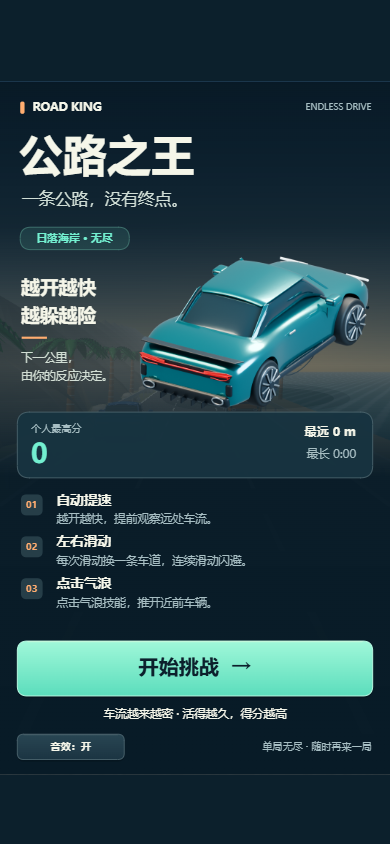
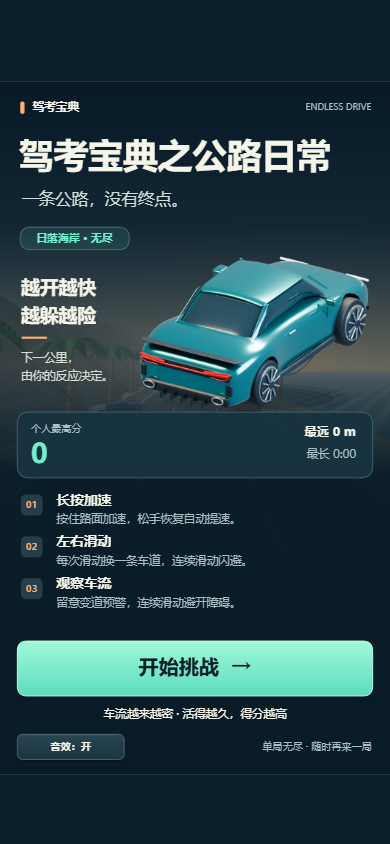
Remove pulse skill, controls, effects and audio

Changed region(s): [[0.0308, 0.1232, 0.8615, 0.2156], [0.1231, 0.5853, 0.5846, 0.6469], [0.1538, 0.6777, 0.5846, 0.7393]]

diff --git a/公路之王/src/game-app.js b/公路之王/src/game-app.js
@@ -32,7 +32,6 @@ class RoadKingApp {
     if(type==='collision'||(type==='mode'&&this.game.mode!=='playing'))this.releaseHolds();
     if(type==='start'||type==='mode'||type==='result'||type==='collision')this.syncEngine();
     if(type==='collision'){this.shake=.5;this.p.vibrate();if(!this.muted)this.p.sound('hit');}
-    if(type==='pulse'&&!this.muted)this.p.sound('pulse');
     if(type==='result'){
       const g=this.game;this.releaseHolds();this.newBest=g.score>this.best.score;
       this.best={score:Math.max(this.best.score,number(g.score)),distance:Math.max(this.best.distance,number(g.distance)),elapsed:Math.max(this.best.elapsed,number(g.elapsed))};
@@ -172,7 +171,6 @@ class RoadKingApp {
     for(let z=240;z>-8;z-=42){const a=this.projection(z-travel%42),x=270+a.half+37*a.p,h=136*a.p;this.line(x,a.y,x,a.y-h,'#657a7b',Math.max(1,3*a.p));this.line(x,a.y-h,x-28*a.p,a.y-h+2*a.p,'#83918b',Math.max(1,3*a.p));this.line(x-28*a.p,a.y-h+3*a.p,x-48*a.p,a.y-h+3*a.p,'#ffdf9b',Math.max(1,3*a.p));}
     if(!menu){
       this.drawSpeedLines();
-      if(g.pulseLife>0){const a=this.projection(0,g.playerX),radius=(.8-g.pulseLife)*220+40;c.strokeStyle=C.cyan;c.lineWidth=7*g.pulseLife;c.beginPath();c.ellipse(a.x,a.y-19,radius,radius*.55,0,0,Math.PI*2);c.stroke();}
     }
     const traffic=menu?[{id:1,x:-1,z:32},{id:2,x:1,z:59,threat:true},{id:4,x:0,z:115},{x:0,z:84,kind:'barrier'}]:g.traffic;
     const actors=traffic.slice();if(!menu)actors.push({player:true,x:g.playerX,z:0});
@@ -230,7 +228,7 @@ class RoadKingApp {
     this.txt('越开越快',29,287,26,C.white,'bold');this.txt('越躲越险',29,327,26,C.white,'bold');this.line(30,355,65,355,C.orange,3);this.txt('下一公里，',29,385,16,'#d2ded4');this.txt('由你的反应决定。',29,409,16,'#d2ded4');
     if(this.art.hero){this.groundShadow(355,439,130,21);c.drawImage(this.art.hero,158,215,388,259);}else this.car(398,412,1.65,C.cyan,true,false);
     this.rr(24,458,492,91,17,'rgba(23,51,63,.96)','#476069');this.txt('个人最高分',43,482,14,C.mute);this.txt(Math.round(this.best.score),43,519,37,C.cyan,'bold');this.txt('最远 '+distance(this.best.distance),493,486,17,C.white,'bold','right');this.txt('最长 '+duration(this.best.elapsed),493,518,16,C.mute,'normal','right');
-    const tips=[['01','长按加速','按住路面加速，松手恢复自动提速。'],['02','左右滑动','每次滑动换一条车道，连续滑动闪避。'],['03','点击气浪','点击气浪技能，推开近前车辆。']];
+    const tips=[['01','长按加速','按住路面加速，松手恢复自动提速。'],['02','左右滑动','每次滑动换一条车道，连续滑动闪避。'],['03','观察车流','留意变道预警，连续滑动避开障碍。']];
     tips.forEach((tip,i)=>{const y=581+i*58;this.rr(29,y-9,30,29,8,'#263e48');this.txt(tip[0],44,y+6,13,C.orange,'bold','center');this.txt(tip[1],78,y,19,C.white,'bold');this.txt(tip[2],78,y+26,16,C.mute);});
     this.button(24,775,492,76,'开始挑战  →',()=>this.start(),{primary:true,size:28});this.txt('车流越来越密 · 活得越久，得分越高',270,878,16,C.white,'normal','center');
     this.button(24,904,148,35,this.muted?'音效：关':'音效：开',()=>this.toggleSound(),{size:14,radius:9});
@@ -261,13 +259,6 @@ class RoadKingApp {
     if(playing&&g.elapsed<7){this.rr(111,276,318,42,12,'rgba(10,27,38,.88)');this.txt('← 左右滑动，连续闪避 →',270,297,18,C.white,'bold','center');}
     const controls=c.createLinearGradient(0,844,0,H);controls.addColorStop(0,'#163747');controls.addColorStop(1,'#0b202e');c.fillStyle=controls;c.fillRect(0,844,W,116);this.line(0,844,W,844,'#769082');
     this.txt('←',99,875,34,C.cyan,'bold','center');this.txt('滑动驾驶',270,872,24,C.white,'bold','center');this.txt('→',441,875,34,C.cyan,'bold','center');this.txt('左右滑动换道 · 长按路面加速',270,901,16,C.mute,'normal','center');
-    if(playing){
-      const x=473,y=664,r=45,cooling=g.pulseCooldown>0;
-      c.save();c.beginPath();c.arc(x,y,r,0,Math.PI*2);c.fillStyle=cooling?'rgba(20,43,53,.42)':'rgba(24,65,68,.48)';c.fill();c.strokeStyle=cooling?'rgba(205,232,224,.32)':'rgba(151,255,221,.72)';c.lineWidth=2;c.stroke();
-      if(cooling){c.beginPath();c.arc(x,y,r-4,-Math.PI/2,-Math.PI/2+Math.PI*2*(1-g.pulseCooldown/10));c.strokeStyle='rgba(115,239,208,.65)';c.lineWidth=3;c.stroke();}
-      this.txt(cooling?Math.ceil(g.pulseCooldown)+'s':'✦',x,y-9,cooling?23:30,cooling?C.white:C.cyan,'bold','center');this.txt('气浪',x,y+21,15,C.white,'bold','center');c.restore();
-      this.buttons.push({x:x-r,y:y-r,w:r*2,h:r*2,circle:true,key:'气浪技能',disabled:cooling,action:()=>g.pulse()});
-    }
     this.txt(g.collisionStopped?'碰撞停车 · 滑到旁边车道重新起步':g.throttle?'正在加速 · 松手恢复巡航':'自动提速 · 长按路面加速',270,934,15,C.mute,'normal','center');
   }
   scrim(){this.ctx.fillStyle='rgba(3,12,19,.83)';this.ctx.fillRect(0,0,W,H);this.buttons=[];}
@@ -280,7 +271,7 @@ class RoadKingApp {
     this.txt('本局得分',270,354,16,C.mute,'normal','center');this.txt(Math.round(g.score),270,405,62,C.cyan,'bold','center');this.txt('最高分 '+Math.round(this.best.score),270,455,17,this.newBest?C.orange:C.mute,'bold','center');
     const stats=[['行驶距离',distance(g.distance)],['存活时间',duration(g.elapsed)],['最高时速',Math.round(g.maxSpeed||g.speed)+' km/h'],['成功躲避',number(g.dodged)+' 次']];
     stats.forEach((stat,i)=>{const x=i%2===0?150:390,y=i<2?507:591;this.txt(stat[0],x,y,15,C.mute,'normal','center');this.txt(stat[1],x,y+34,27,C.white,'bold','center');});
-    this.button(50,672,440,66,'再挑战一次  →',()=>this.start(),{primary:true,size:25});this.button(50,757,440,51,'返回首页',()=>{this.releaseHolds();this.game.menu();},{size:19});this.txt('提前左右滑动，点击气浪解围。',270,872,17,C.mute,'normal','center');
+    this.button(50,672,440,66,'再挑战一次  →',()=>this.start(),{primary:true,size:25});this.button(50,757,440,51,'返回首页',()=>{this.releaseHolds();this.game.menu();},{size:19});this.txt('观察变道预警，左右滑动避开障碍。',270,872,17,C.mute,'normal','center');
   }
 }
 module.exports=RoadKingApp;

diff --git a/tests/game-core.test.js b/tests/game-core.test.js
@@ -134,7 +134,7 @@ test('a run settles once on the fourth hit and retry resets all challenge resour
   const events = [];
   const game = fresh(137, (type, data) => events.push({ type, data }));
   noSpawns(game);
-  game.update(80); game.pulse(); game.setSignal(1); game.update(0.5);
+  game.update(80); game.setSignal(1); game.update(0.5);
   for (let i = 0; i < 4; i++) { game.traffic = []; game.collisionStopped = false; game.invulnerability = 0; car(game); game._updateTraffic(0.001); }
   game.update(0.01);
   assert.equal(game.mode, 'result');
@@ -145,7 +145,7 @@ test('a run settles once on the fourth hit and retry resets all challenge resour
   assert.equal(JSON.stringify(game), result);
   assert.equal(events.filter(event => event.type === 'result').length, 1);
   game.start(2);
-  for (const name of ['score', 'elapsed', 'distance', 'collisions', 'dodged', 'waveCount', 'clearedEvents', 'eventCount', 'pulseCooldown', 'signalRewardCooldown'])
+  for (const name of ['score', 'elapsed', 'distance', 'collisions', 'dodged', 'waveCount', 'clearedEvents', 'eventCount', 'signalRewardCooldown'])
     assert.equal(game[name], 0, name);
   assert.equal(game.level, 0);
   assert.equal(game.health, 100);
@@ -161,13 +161,12 @@ test('a run settles once on the fourth hit and retry resets all challenge resour
 test('pause freezes clocks and cars; resume and menu obey mode guards', () => {
   const game = fresh(); noSpawns(game);
   car(game, 1, 15);
-  game.setSignal(-1); game.pulse(); game.update(0.5);
+  game.setSignal(-1); game.update(0.5);
   game.setThrottle(true); game.pause();
   const before = JSON.stringify(game);
   game.update(25);
   assert.equal(JSON.stringify(game), before);
   assert.equal(game.changeLane(-1), false);
-  assert.equal(game.pulse(), false);
   assert.equal(game.setSignal(1), false);
   assert.equal(game.throttle, false);
   assert.equal(game.resume(), true);
@@ -195,24 +194,6 @@ test('signal reward still requires a full second, correct direction and a clear 
       assert.equal(game.score, secondScore, 'cooldown prevents another signal bonus');
     }
   }
-});
-
-test('pulse has a ten-second cooldown and affects only cars in its visible range', () => {
-  const game = fresh(); noSpawns(game);
-  const near = car(game, 1, 20);
-  const far = car(game, -1, 50);
-  assert.equal(game.pulse(), true);
-  assert.equal(game.pulseCooldown, 10);
-  assert.equal(near.escaped, true);
-  assert.equal(near.z, 32);
-  assert.equal(far.escaped, false);
-  assert.equal(game.pulse(), false);
-  assert.equal(game.pulsesUsed, 1);
-  game.update(9.99);
-  assert.equal(game.pulse(), false);
-  game.update(0.02);
-  assert.equal(game.pulse(), true);
-  assert.equal(game.pulsesUsed, 2);
 });
 
 test('brake API and energy reserve are removed', () => {
@@ -284,7 +265,6 @@ test('visible lane choices support six-minute runs across seeds as real traffic 
     close(game.elapsed, 360);
     assert.equal(game.health, 100, `seed ${seed}: readable traffic should be avoidable`);
     assert.equal(game.collisions, 0);
-    assert.equal(game.pulsesUsed, 0, 'basic survival does not require an emergency ability');
     assert.ok(game.dodged > 100);
     const early = waves.filter(wave => wave.elapsed < 30);
     const late = waves.filter(wave => wave.elapsed >= 300 && wave.elapsed < 330);

diff --git a/tests/game-app.test.js b/tests/game-app.test.js
@@ -27,10 +27,19 @@ function fixture(){
  const swipe=(dx,dy,y=540)=>{a.touchStart(event(270,y));a.touchMove(event(270+dx,y+dy));a.touchEnd(event(270+dx,y+dy));};
  return {a,p,event,swipe};
 }
-test('tap and small diagonal motion do not change lanes',()=>{const {a,swipe}=fixture();swipe(10,10);swipe(60,60);assert.equal(a.game.lane,0);assert.equal(a.game.pulseCooldown,0);});
+test('former skill area supports normal road swipe and long press without moving traffic',()=>{
+ const {a,event}=fixture();a.game._nextTraffic=Infinity;
+ const car=a.game._car(-1,25);a.game.traffic.push(car);
+ a.touchStart(event(473,664));a.touchEnd(event(473,664));
+ assert.equal(car.z,25);assert.equal(car.speed,28);assert.equal(a.game.lane,0);
+ a.touchStart(event(473,664));a.touchMove(event(373,664));a.touchEnd(event(373,664));
+ assert.equal(a.game.lane,-1);
+ a.touchStart(event(473,664));a.update(.35);assert.equal(a.game.throttle,true);
+ a.touchEnd(event(473,664));assert.equal(a.game.throttle,false);
+});
+test('tap and small diagonal motion do not change lanes',()=>{const {a,swipe}=fixture();swipe(10,10);swipe(60,60);assert.equal(a.game.lane,0);});
 test('long swipe changes one lane; subsequent swipe can queue next lane',()=>{const {a,event,swipe}=fixture();a.touchStart(event(270,540));a.touchMove(event(180,540));a.touchMove(event(60,540));assert.equal(a.game.lane,-1);a.touchEnd(event(60,540));swipe(100,0);swipe(100,0);a.update(.5);assert.equal(a.game.lane,1);});
-test('down swipe does not change speed or lane',()=>{const {a,swipe}=fixture();const speed=a.game.speed;swipe(0,60,850);assert.equal(a.game.speed,speed);assert.equal(a.game.lane,0);assert.equal(a.game.pulseCooldown,0);assert.equal(a.game.setBrake,undefined);});
-test('up swipe does not release pulse; skill touch activates it once',()=>{const {a,event,swipe}=fixture();swipe(0,-80);assert.equal(a.game.pulseCooldown,0);a.draw=()=>{};a.buttons=[{x:428,y:619,w:90,h:90,circle:true,key:'气浪技能',action:()=>a.game.pulse()}];assert.equal(a.inside({x:429,y:620},a.buttons[0]),false);assert.equal(a.inside({x:473,y:664},a.buttons[0]),true);a.touchStart(event(473,664));a.touchEnd(event(473,664));assert.equal(a.game.pulseCooldown,10);a.update(.1);a.touchStart(event(473,664));assert.ok(a.game.pulseCooldown<10);});
+test('down swipe does not change speed or lane',()=>{const {a,swipe}=fixture();const speed=a.game.speed;swipe(0,60,850);assert.equal(a.game.speed,speed);assert.equal(a.game.lane,0);assert.equal(a.game.setBrake,undefined);});
 test('secondary fingers do not issue gestures and cancel clears gestures',()=>{const {a,p,event}=fixture();a.touchStart(event(270,540,1));a.touchStart(event(270,540,2));a.touchMove(event(370,540,2));assert.equal(a.game.lane,0);a.touchMove(event(270,640,1));p.handlers[3]();assert.deepEqual(a.touchMap,{});});
 test('background clears queued lane before pausing',()=>{const {a,p,swipe}=fixture();swipe(0,80);p.life[0]();assert.equal(a.game.mode,'paused');assert.equal(a.queuedLane,null);a.update(2);assert.equal(a.game.elapsed,0);});
 test('long press accelerates after delay, releases and still permits swipe',()=>{

diff --git a/公路之王/src/scene-renderer.js b/公路之王/src/scene-renderer.js
@@ -20,7 +20,6 @@ void main(){vec3 n=normalize(vNormal),view=normalize(uEye-vWorld),light=normaliz
 if(uKind>0.5&&uKind<1.5){float grain=noise(vec2(vWorld.x*28.,(vWorld.z+uTravel)*28.));base=vec3(.105,.115,.125)*(0.80+grain*.30);float lane=abs(abs(vWorld.x)-1.55);float dash=step(3.,mod(-vWorld.z-uTravel,6.));if(lane<.055&&dash>.5||abs(vWorld.x)>4.48)base=vec3(.84,.82,.71);rough=.9;}
 if(uKind>1.5&&uKind<2.5){float wave=sin(vWorld.x*1.8+uTravel*.03)*sin(vWorld.z*.8+uTravel*.06);n=normalize(vec3(wave*.08,1.,cos(vWorld.x*3.+vWorld.z)*.11));base=vec3(.025,.19,.24);rough=.16;metal=.35;}
 if(uKind>2.5&&uKind<3.5){float r=length((vWorld.xz-uPosition.xz)/uScale.xz);gl_FragColor=vec4(.015,.02,.025,.38*(1.-smoothstep(.45,1.,r)));return;}
-if(uKind>3.5&&uKind<4.5){float r=length((vWorld.xz-uPosition.xz)/uScale.xz);float a=1.-smoothstep(.035,.075,abs(r-.8));gl_FragColor=vec4(.25,1.,.78,a*.65);return;}
 vec3 h=normalize(light+view);float diffuse=max(dot(n,light),0.);float spec=pow(max(dot(n,h),0.),mix(110.,7.,rough));float fresnel=pow(1.-max(dot(n,view),0.),5.);
 vec3 ambient=mix(vec3(.14,.19,.24),vec3(.56,.69,.76),n.y*.5+.5);
 vec3 color=base*(ambient*.75+vec3(1.,.73,.44)*diffuse*.85)+mix(vec3(.45),base,metal)*spec*(.3+metal*.8);
@@ -77,7 +76,6 @@ class SceneRenderer{
     g.enable(g.BLEND);g.blendFunc(g.SRC_ALPHA,g.ONE_MINUS_SRC_ALPHA);g.depthMask(false);
     for(const car of cars){if(car.z> -5&&car.z<150)this.draw(this.ground,[car.x*3.1,.015,-car.z],[1.3,1,2.5],null,3);}
     if(!menu)this.draw(this.ground,[game.playerX*3.1,.018,0],[1.35,1,2.6],null,3);
-    if(game.pulseLife>0){const r=1+(1-game.pulseLife/.8)*12;this.draw(this.ground,[game.playerX*3.1,.022,0],[r,1,r],null,4);}
     g.depthMask(true);g.disable(g.BLEND);
     for(const car of cars){if(car.z< -5||car.z>180)continue;const x=car.x*3.1,z=-car.z;this.model(car.kind==='barrier'?'barrier':car.threat?'player':car.id%2?'suv':'player',[x,.035,z],car.threat?[.76,.18,.035]:car.id%2?[.48,.51,.53]:[.035,.12,.30]);}
     if(!menu)this.model('player',[game.playerX*3.1,.035,0],[.012,.36,.41]);

diff --git a/公路之王/src/game-core.js b/公路之王/src/game-core.js
@@ -34,8 +34,6 @@ class RoadKingCore {
     this.signalDirection = 0;
     this.signalTimer = 0;
     this.signalRewardCooldown = 0;
-    this.pulseCooldown = 0;
-    this.pulseLife = 0;
     this.invulnerability = 0;
     this.collisionStopped = false;
     this.collisionX = 0;
@@ -46,7 +44,6 @@ class RoadKingCore {
     this.resultReason = '';
     this.stars = 0;
     this.signalsUsed = 0;
-    this.pulsesUsed = 0;
     this.throttle = false;
 
     this._nextTraffic = 1.4;
@@ -113,7 +110,7 @@ class RoadKingCore {
     if (this.health <= 0) { this._finish(false, '车辆耐久耗尽'); return; }
     this.elapsed += dt;
     this._updateDifficulty();
-    for (const key of ['invulnerability', 'laneChangeCooldown', 'signalRewardCooldown', 'pulseCooldown', 'pulseLife', 'messageTimer'])
+    for (const key of ['invulnerability', 'laneChangeCooldown', 'signalRewardCooldown', 'messageTimer'])
       this[key] = Math.max(0, this[key] - dt);
     if (this.signalDirection !== 0) {
       this.signalTimer += dt;
@@ -175,26 +172,6 @@ class RoadKingCore {
     this.signalTimer = 0;
     this.signalsUsed++;
     this._emit('signal', { direction: dir });
-    return true;
-  }
-
-  pulse() {
-    if (this.mode !== 'playing' || this.pulseCooldown > 1e-8) return false;
-    this.pulseCooldown = 10;
-    this.pulseLife = 0.8;
-    this.pulsesUsed++;
-    const carIds = [];
-    for (const car of this.traffic) {
-      if (car.kind === 'barrier' || car.hit || car.escaped || car.z < -4 || car.z > 36) continue;
-      car.z += 12;
-      car.speed = Math.max(150, roadSpeed(this.speed) + 70);
-      car.escaped = true;
-      car.signalDirection = 0;
-      car.warningTimer = 0;
-      carIds.push(car.id);
-    }
-    this._emit('pulse', { countered: carIds.length > 0, carIds, cooldown: 10 });
-    this._message(carIds.length ? '气浪已推开近处车辆 · 路障仍需换道' : '气浪已释放 · 近处车辆可推开，路障需避让', 2.8);
     return true;
   }
 

diff --git a/preview/browser-platform.js b/preview/browser-platform.js
@@ -178,14 +178,13 @@
   window.addEventListener('keydown', event => {
     const game = core();
     if (!game) return;
-    const keys = ['KeyA', 'KeyD', 'KeyW', 'KeyF', 'KeyR', 'ArrowLeft', 'ArrowRight', 'ArrowUp', 'Escape', 'Enter'];
+    const keys = ['KeyA', 'KeyD', 'KeyW', 'KeyR', 'ArrowLeft', 'ArrowRight', 'ArrowUp', 'Escape', 'Enter'];
     if (!keys.includes(event.code)) return;
     event.preventDefault();
     held.add(event.code); updateHeld();
     if (event.repeat) return;
     if (event.code === 'KeyA' || event.code === 'ArrowLeft') window.roadKingApp.changeLane(-1);
     else if (event.code === 'KeyD' || event.code === 'ArrowRight') window.roadKingApp.changeLane(1);
-    else if (event.code === 'KeyF') game.pulse();
     else if (event.code === 'Escape') {
       window.roadKingApp.releaseHolds();
       game.mode === 'paused' ? game.resume() : game.pause();

diff --git a/tests/platform.test.js b/tests/platform.test.js
@@ -74,9 +74,9 @@ test('storage round trips structured values and unavailable storage is nonfatal'
 
 test('audio contexts are cached by sound name, replay safely and stop on request', () => {
   const { platform, audio } = fixture();
-  platform.sound('pulse'); platform.sound('pulse'); platform.sound('hit');
+  platform.sound('signal'); platform.sound('signal'); platform.sound('hit');
   assert.equal(audio.length, 2);
-  assert.equal(audio[0].src, 'audio/pulse.wav'); assert.equal(audio[0].volume, 0.3);
+  assert.equal(audio[0].src, 'audio/signal.wav'); assert.equal(audio[0].volume, 0.3);
   assert.equal(audio[0].plays, 2); assert.equal(audio[0].stops, 2);
   assert.equal(audio[1].plays, 1);
   assert.equal(audio[1].volume, .85, 'collision cuts through the driving sound');

diff --git a/preview/index.html b/preview/index.html
@@ -17,7 +17,7 @@
   </style>
 </head>
 <body>
-  <header><strong>驾考宝典之公路日常 · 无尽挑战</strong><br>左右滑动换道 · 点击气浪技能 · 长按加速</header>
+  <header><strong>驾考宝典之公路日常 · 无尽挑战</strong><br>左右滑动换道 · 长按加速</header>
   <canvas id="game" aria-label="驾考宝典之公路日常游戏画布" tabindex="0"></canvas>
   <pre id="error" role="alert"></pre>
   <script src="/preview/browser-platform.js"></script>

diff --git a/tools/package_douyin_demo.py b/tools/package_douyin_demo.py
@@ -89,7 +89,7 @@ report = {
     'files':names,
     'zipIntegrity':'passed',
     'platform':'Douyin native WebGL 3D scene with Blender geometry and Canvas 2D HUD',
-    'verification':'63 Node tests including randomized merge completion, direction, warning timing and short reaction distance checks; six seeded 120-second runs of the shipped difficulty cliff (easy tutorial, hard tier two, escalating later tiers); sidebar capability, navigation failure and hot-start checks; sidebar browser UI at 390x844 and 320x568 with mocked host APIs; collision audio single playback and mute checks; extreme configured-speed browser spawning and collision checks, configurable tier durations and hazard parameters, four difficulty tiers, persistent WebAudio engine playback and 15-second PCM continuity checks, traffic merge clearance, collision stop/recovery and WebGL rendering. See research/blender-preview and README for scope.',
+    'verification':'62 Node tests; pulse skill removed; former skill area swipe/hold and two-size driving UI checks; including randomized merge completion, direction, warning timing and short reaction distance checks; six seeded 120-second runs of the shipped difficulty cliff (easy tutorial, hard tier two, escalating later tiers); sidebar capability, navigation failure and hot-start checks; sidebar browser UI at 390x844 and 320x568 with mocked host APIs; collision audio single playback and mute checks; extreme configured-speed browser spawning and collision checks, configurable tier durations and hazard parameters, four difficulty tiers, persistent WebAudio engine playback and 15-second PCM continuity checks, traffic merge clearance, collision stop/recovery and WebGL rendering. See research/blender-preview and README for scope.',
     'notVerified':['Blender art version in Douyin IDE simulator','Android/iOS phone','live upload and publication','phone performance','audio listening'],
 }
 (target / 'delivery-manifest.json').write_text(json.dumps(report,ensure_ascii=False,indent=2),encoding='utf-8')

diff --git a/tools/generate_audio.py b/tools/generate_audio.py
@@ -1,4 +1,4 @@
-"""Build the licensed collision effect and three original PCM effects."""
+"""Build the licensed collision effect and two original PCM effects."""
 import math
 import struct
 import wave
@@ -29,7 +29,6 @@ def generate(name, duration, sample):
 def main():
     DESTINATION.mkdir(parents=True, exist_ok=True)
     generate_collision()
-    generate('pulse', 0.42, lambda t, d: (math.sin(2 * math.pi * (280 * t - 220 * t * t)) + 0.25 * math.sin(2 * math.pi * 54 * t)) * (1 - t / d) ** 1.6)
 
     def success(t, duration):
         notes = [(0, 659.25), (0.075, 830.61), (0.15, 987.77)]

diff --git a/docs/endless-mode.md b/docs/endless-mode.md
@@ -4,7 +4,7 @@
 
 ## 一局流程
 
-点击开始，从中间车道出发。车辆自动巡航，玩家通过左右换道和气浪解围。没有终点或必须完成的事件数；只在耐久耗尽时结算。得分随行驶距离和成功躲避障碍增长，碰撞扣分。结算显示距离、存活时间、最高车速和躲避数量，再挑战会重置整局难度和车辆状态。
+点击开始，从中间车道出发。车辆自动巡航，玩家通过左右换道避障和长按加速。没有终点或必须完成的事件数；只在耐久耗尽时结算。得分随行驶距离和成功躲避障碍增长，碰撞扣分。结算显示距离、存活时间、最高车速和躲避数量，再挑战会重置整局难度和车辆状态。
 
 ## 难度与公平性
 
@@ -25,7 +25,7 @@
 
 ## 应急资源
 
-手机驾驶采用滑动操作：左右滑动每次换一条车道，点击气浪技能释放气浪。公路和底部提示区均可滑动，气浪通过右侧半透明圆形技能按钮释放。气浪保留范围与冷却，推开近前车辆；固定路障仍需避让。普通换道始终是主要操作。
+手机驾驶采用滑动操作：左右滑动每次换一条车道，长按路面加速。公路和底部提示区均可滑动，车辆与固定路障都需要换道避让。
 
 ## 界面与纪录
 

diff --git a/公路之王/README.md b/公路之王/README.md
@@ -14,12 +14,11 @@
 | --- | --- | --- |
 | 左右换道 | 左右滑动，每次换一条车道 | A / D 或 ← / → |
 | 加速 | 长按路面 0.3 秒加速，松手恢复巡航 | W / ↑ 可额外加速 |
-| 气浪解围 | 点击右侧半透明圆形气浪按钮，推开近前车辆 | F |
 | 暂停/继续 | 右上角暂停按钮 | Esc |
 | 开始/再挑战 | 首页或结算页主按钮 | Enter |
 | 立即重开 | 暂停页重新开始 | R |
 
-公路和底部提示区都支持滑动，仅气浪技能保留点击按钮。每次滑动只触发一次操作，连续两次左右滑动可跨两条车道。左右滑动换道，点击气浪技能释放气浪。气浪冷却 10 秒，只推开近前车辆，固定路障仍需换道。离开页面或切到后台会暂停并释放按住的操作，回来后手动继续。
+公路和底部提示区都支持滑动。每次滑动只触发一次操作，连续两次左右滑动可跨两条车道。左右滑动换道，长按路面加速；车辆和固定路障均需换道避让。离开页面或切到后台会暂停并释放按住的操作，回来后手动继续。
 
 ## 无尽规则
 
